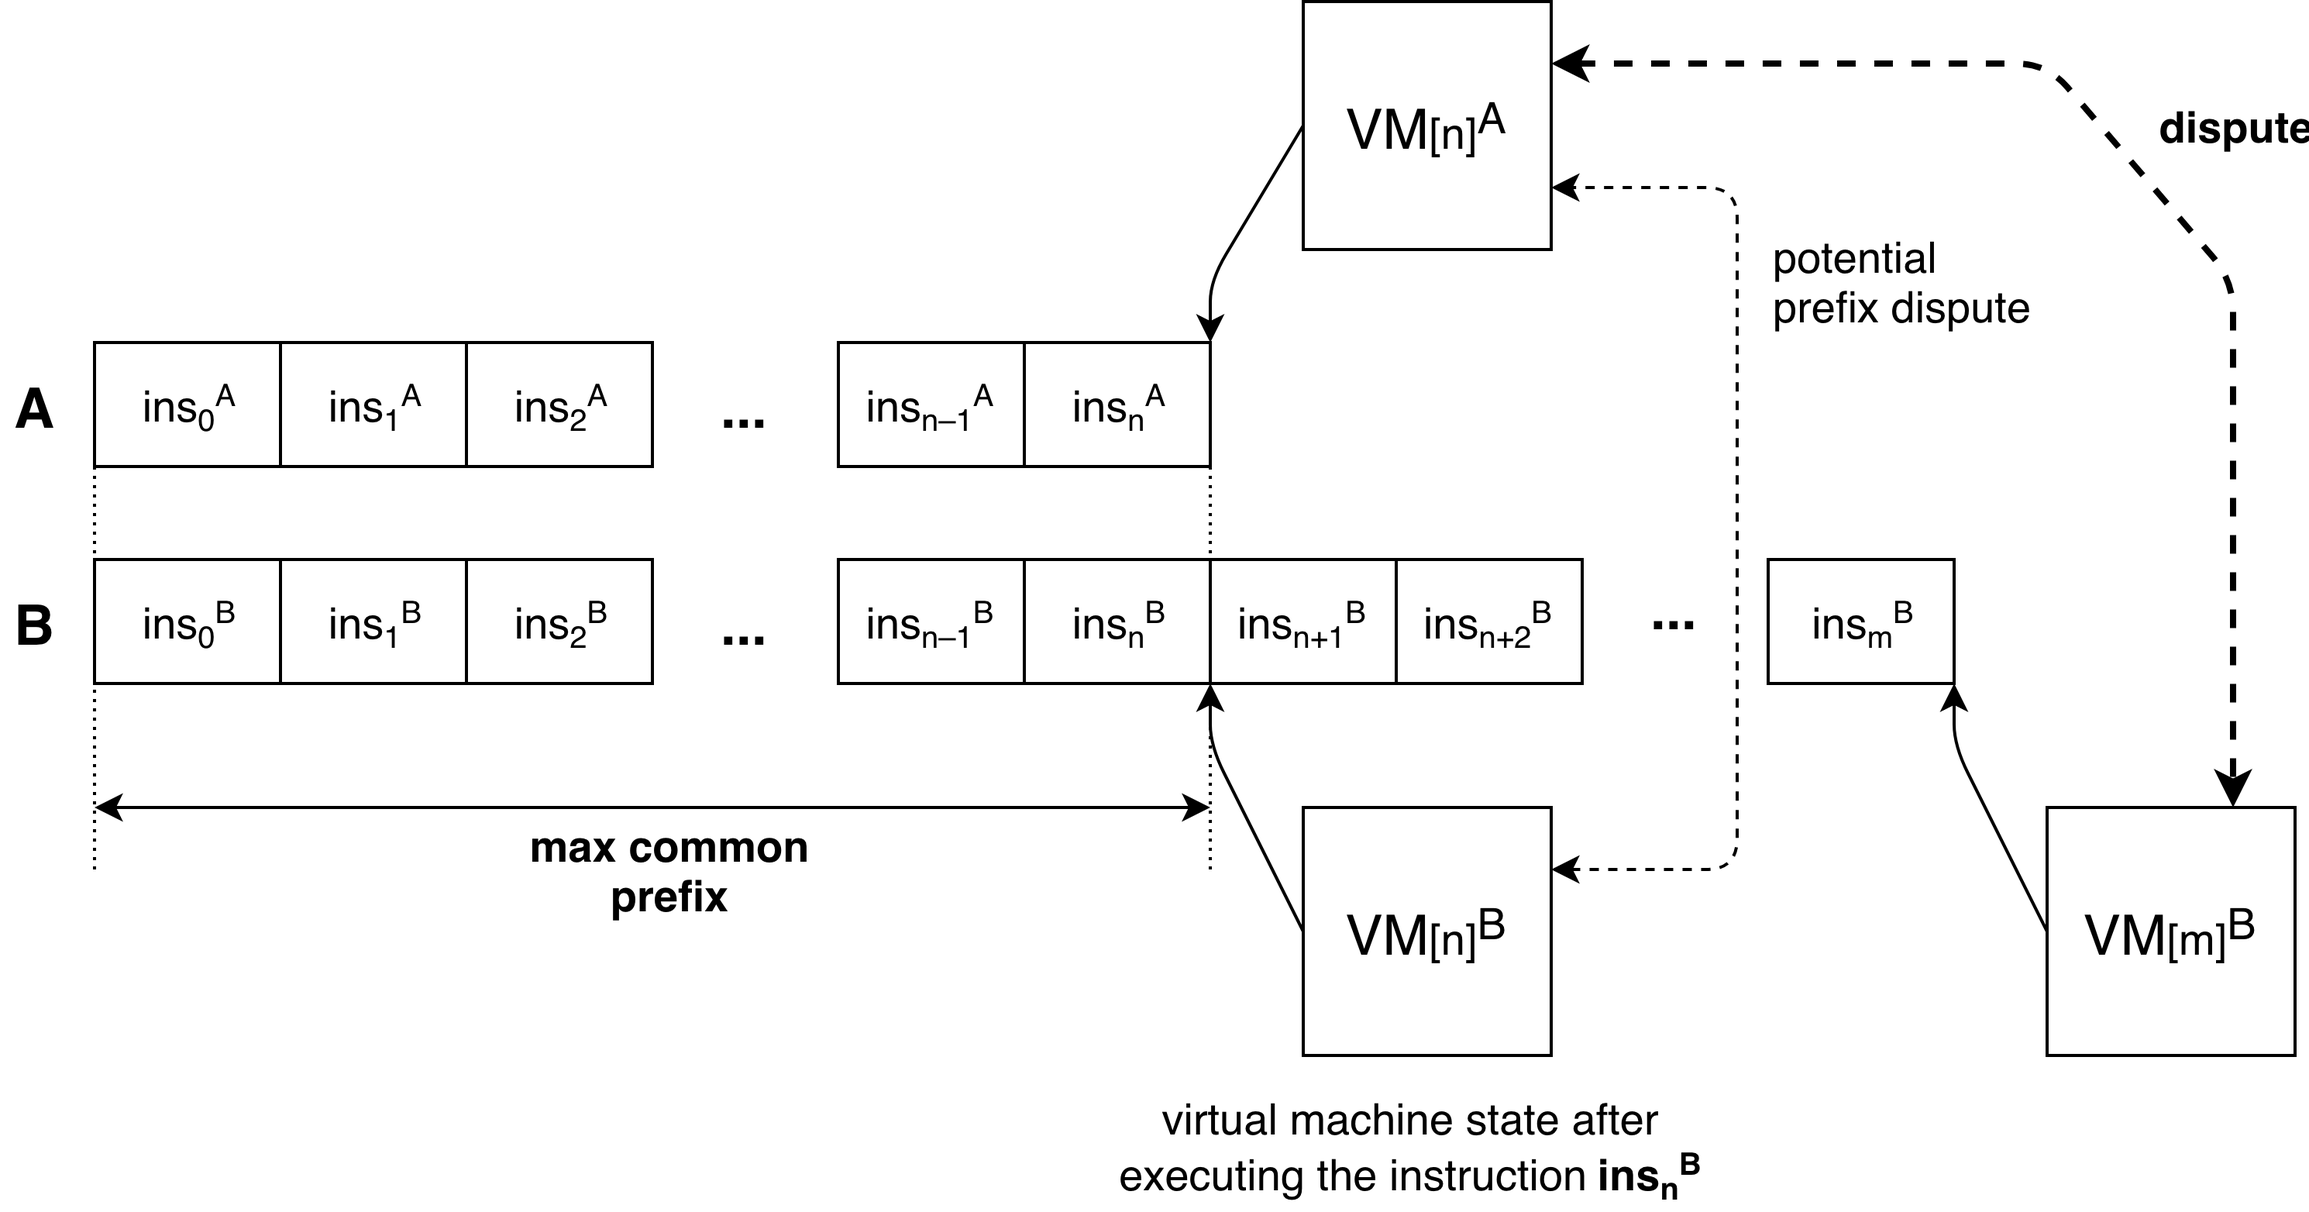
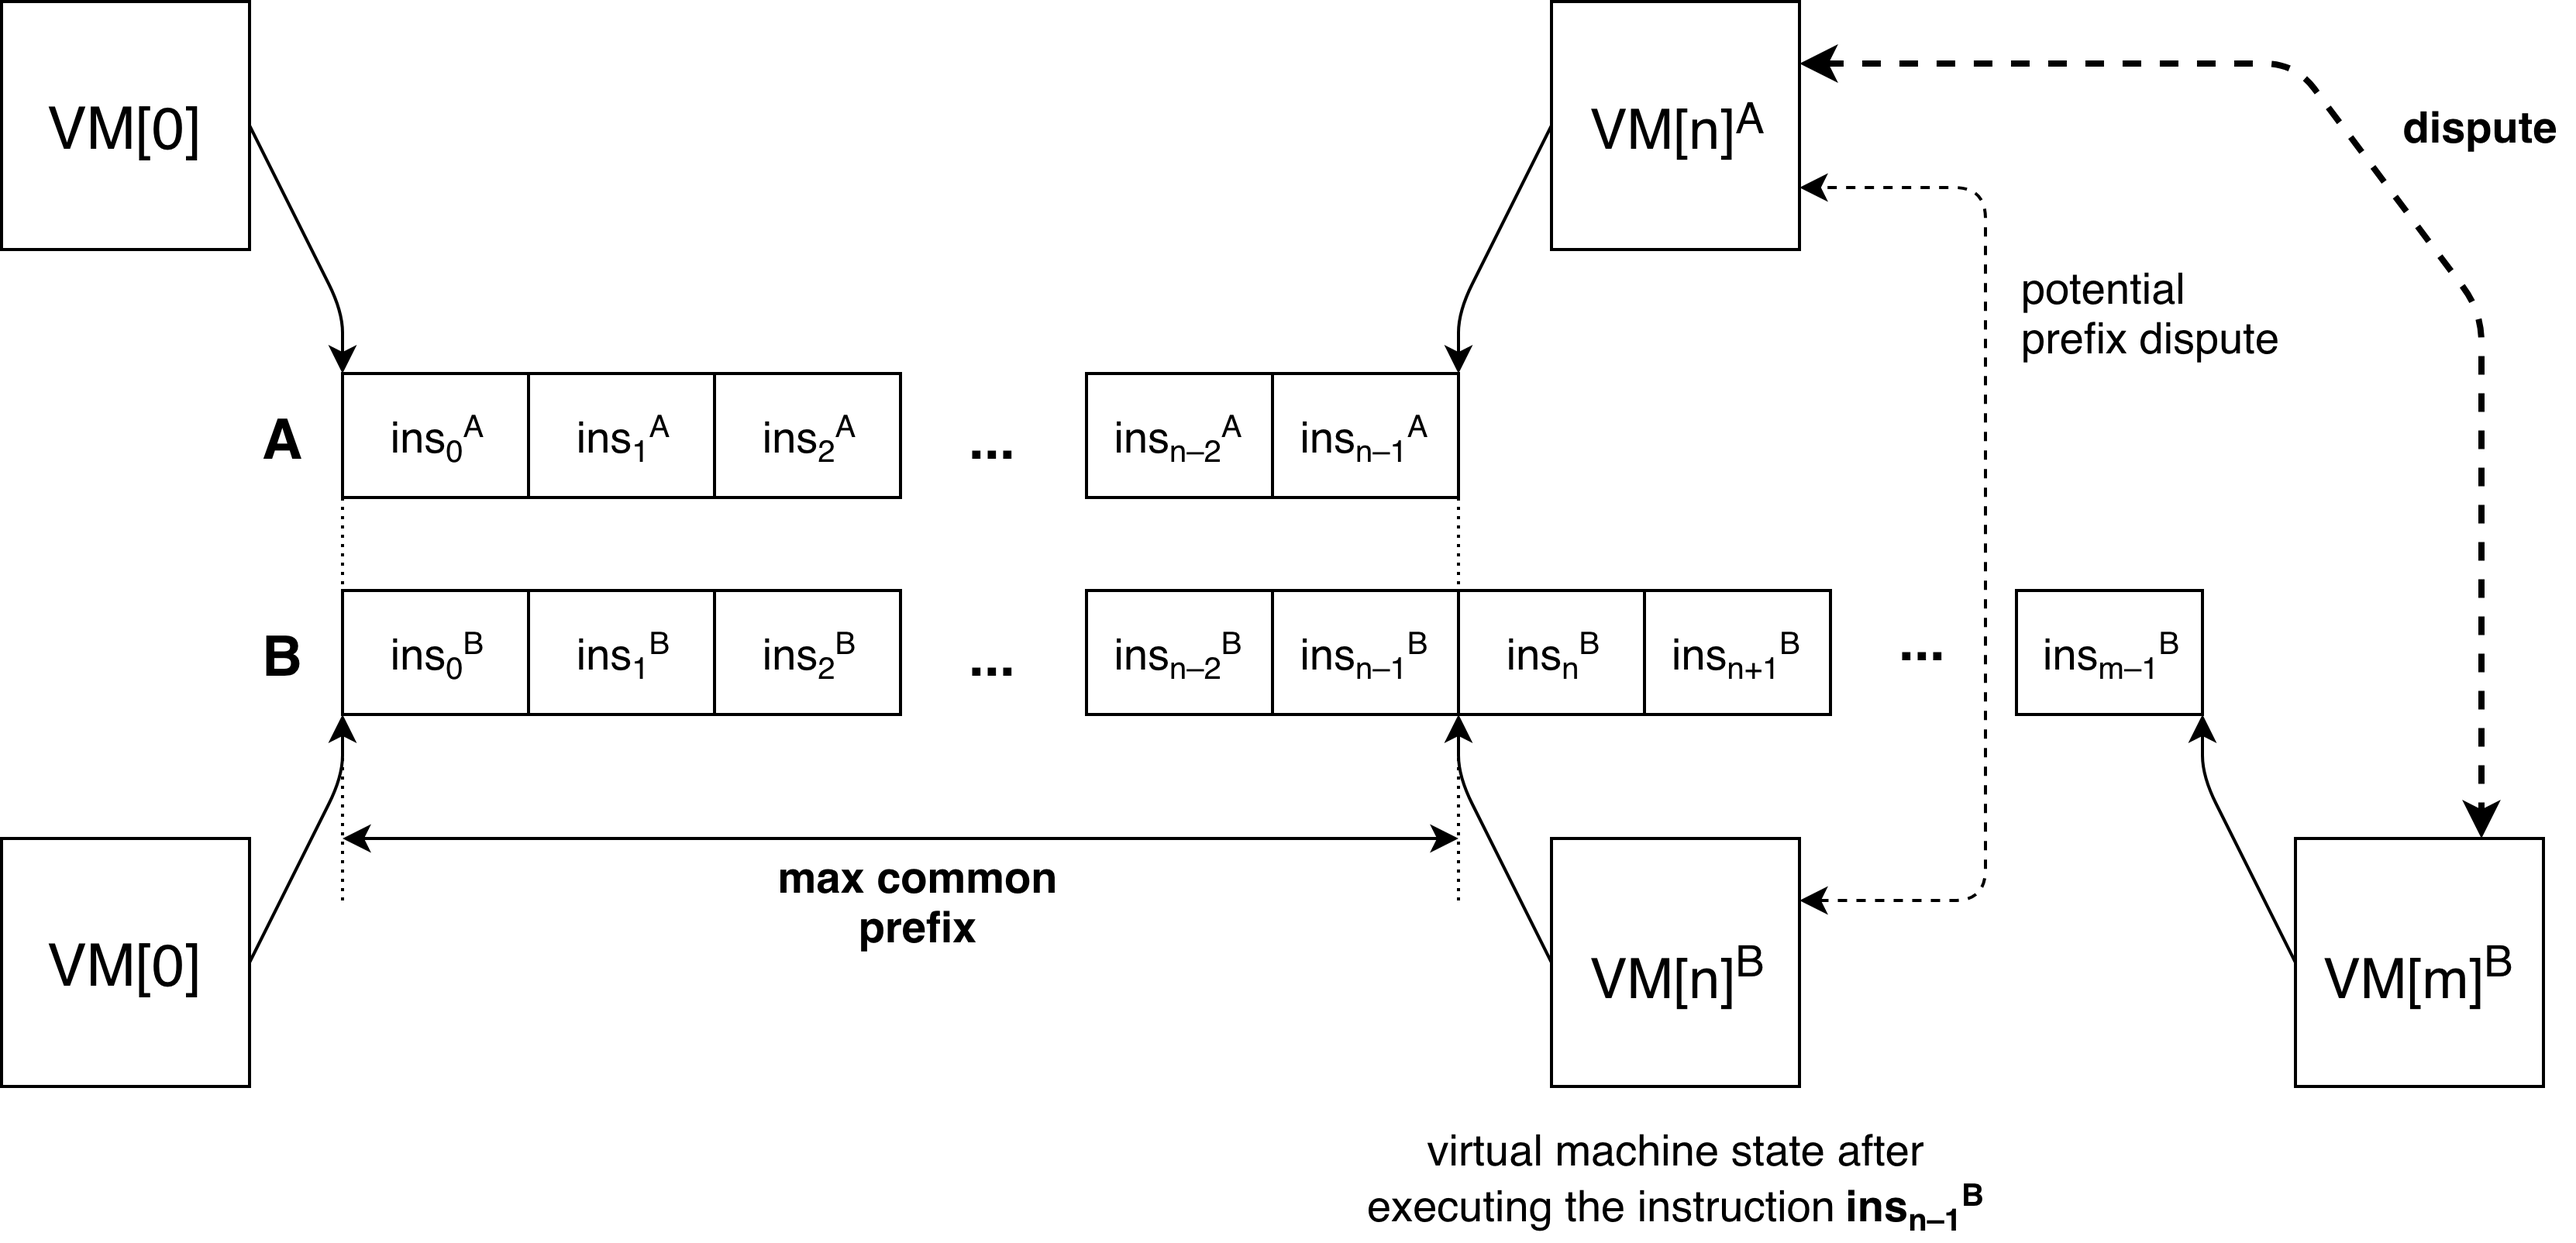
Protocol: verification game

diff --git a/docs/protocol/vm.go b/docs/protocol/vm.go
@@ -63,3 +63,23 @@ func (dispute ComputationDispute) PresentPrefixState(prefixVMHash Digest, signat
 // presents an instruction pointer corresponding to the VM state after executing the common prefix
 // [called by each party independently]
 func (dispute ComputationDispute) PresentInstructionPointer(pointer int64, proof MerkleProof) { panic("") }
+
+// presents a hash of the VM state after executing halfway from the current state parties agree on
+// to the state parties do not agree on
+// [called by each party independently]
+func (dispute ComputationDispute) PresentHalfwayState(halfwayVMHash Digest, signature Seal) { panic("") }
+
+// presents an instruction where the computation has diverged
+// presents a pointer to this instruction showing where it should be located in the Wasm code
+// presents a Merkle proof that the instruction is present in the Wasm code at the specified location
+// presents a Merkle proof that the pointer indeed belongs to the halfway virtual machine state
+// [can be called by any party]
+func (dispute ComputationDispute) PresentDisputedInstruction(
+  instruction []byte, instructionProof MerkleProof,
+  pointer int64, pointerProof MerkleProof,
+) { panic("") }
+
+// presents memory regions required by the disputed instruction
+// presents Merkle proofs that these regions belong to the halfway virtual machine state
+// [can be called by any party]
+func (dispute ComputationDispute) PresentMemoryRegions(regions []Chunk, proofs []MerkleProof) { panic("") }

diff --git a/docs/protocol.md b/docs/protocol.md
@@ -1049,10 +1049,10 @@ func (dispute ComputationDispute) PresentTraceLength(
   
 It might happen that <code>VM<sub>k+1</sub><sup>A</sup>.ExecutedCounter</code> is not equal to <code>VM<sub>k+1</sub><sup>B</sup>.ExecutedCounter</code>, which means one of the nodes had the longer execution trace than another. This situation requires additional processing, which we consider below.
 
-Let's denote the state of the virtual machine after processing `p` WebAssembly instructions while executing the transactions block <code>Txs<sub>k</sub></code> as <code>VM[p]<sub>k</sub></code>. Let's also denote the total number of instructions executed by **A** while processing <code>Txs<sub>k</sub></code> as `n`, **B** – as `m`, where `n < m`.
+Let's denote the state of the virtual machine after processing `p – 1` WebAssembly instructions while executing the transactions block <code>Txs<sub>k</sub></code> as <code>VM[p]<sub>k</sub></code>. Let's also denote the total number of instructions executed by **A** while processing <code>Txs<sub>k</sub></code> as `n`, **B** – as `m`, where `n < m`.
 
 <p align="center">
-  <img src="images/trace_mismatch.png" alt="Trace Mismatch" width="745px"/>
+  <img src="images/trace_mismatch.png" alt="Trace Mismatch" width="825px"/>
 </p>
 
 Now we are interested whether the state <code>VM[n]<sub>k+1</sub><sup>A</sup></code> is equal to the state <code>VM[n]<sub>k+1</sub><sup>B</sup></code>. Smart contract requires both sides to present the hash of the state <code>VM[n]<sub>k+1</sub></code>:
@@ -1063,9 +1063,9 @@ Now we are interested whether the state <code>VM[n]<sub>k+1</sub><sup>A</sup></c
 func (dispute ComputationDispute) PresentPrefixState(prefixVMHash Digest, signature Seal) {}
 ```
 
-If <code>VM[n]<sub>k+1</sub><sup>A</sup> != VM[n]<sub>k+1</sub><sup>B</sup></code>, we have a mismatch between the virtual machine states computed using the same number of instructions. This means we can initiate a prefix dispute between those states and use a standard verification game to resolve it. Note that instructions in the execution trace prefixes might be completely different between **A** and **B** – everything that matters is the same length of those prefixes.
+**1)** If <code>VM[n]<sub>k+1</sub><sup>A</sup> != VM[n]<sub>k+1</sub><sup>B</sup></code>, we have a mismatch between the virtual machine states computed using the same number of instructions. This means we can initiate a prefix dispute between those states and use a standard verification game to resolve it. Note that instructions in the execution trace prefixes might be completely different between **A** and **B** – everything that matters is the same length of those prefixes.
 
-If <code>VM[n]<sub>k+1</sub><sup>A</sup> == VM[n]<sub>k+1</sub><sup>B</sup></code>, then we need to figure out whether the decision of **A** to halt the program after `n` instructions, as well as the decision of **B** to run another `n+1` instruction were correct. To do so, we require both nodes to present the instruction pointer (along with the Merkle proof) corresponding to the state <code>VM[n]<sub>k+1</sub></code> to the smart contract. If it's negative, it means the execution should have stopped which means **B** misbehaved, otherwise the execution should have continued and **A** should be penalized.
+**2)** If <code>VM[n]<sub>k+1</sub><sup>A</sup> == VM[n]<sub>k+1</sub><sup>B</sup></code>, then we need to figure out whether the decision of **A** to halt the program after `n` instructions, as well as the decision of **B** to run another `n+1` instruction were correct. To do so, we require both nodes to present the instruction pointer (along with the Merkle proof) corresponding to the state <code>VM[n]<sub>k+1</sub></code> to the smart contract. If it's negative, it means the execution should have stopped which means **B** misbehaved, otherwise the execution should have continued and **A** should be penalized.
 
 ```go
 // presents an instruction pointer corresponding to the VM state after executing the common prefix
@@ -1075,10 +1075,51 @@ func (dispute ComputationDispute) PresentInstructionPointer(pointer int64, proof
 
 #### Verification game
 
+Once we have established the same number `n` of instructions in the execution traces of **A** and **B**, it's possible to execute a verification game. Both nodes start with the same virtual machine state <code>VM<sub>k</sub></code>, but end with different states <code>VM<sub>k+1</sub><sup>A</sup></code> and <code>VM<sub>k+1</sub><sup>B</sup></code>. This means that somewhere during the execution virtual machine states have diverged, and this was done by a single WebAssembly instruction. 
 
+This instruction can be found using a binary search. On each step of the search we are narrowing down the range `[i; j]` where <code>VM[i]<sub>k+1</sub><sup>A</sup> == VM[i]<sub>k+1</sub><sup>B</sup></code>, but <code>VM[j]<sub>k+1</sub><sup>A</sup> != VM[j]<sub>k+1</sub><sup>B</sup></code>. To do so, we compute the virtual machine state at `l = (i+j)/2` and if <code>VM[l]<sub>k+1</sub><sup>A</sup> == VM[l]<sub>k+1</sub><sup>B</sup></code>, set `i = l` indicating that computation divergence happened in the right half of the range. Otherwise we set `j = l` to investigate the left half of the range.
 
+<p align="center">
+  <img src="images/verification_game_search.png" alt="Verification Game Search" width="851px"/>
+</p>
 
+To perform the binary search, the contract requires both nodes to send the hash of the virtual machine state after executing `l` instructions.
 
+```go
+// presents a hash of the VM state after executing halfway from the current state parties agree on
+// to the state parties do not agree on
+// [called by each party independently]
+func (dispute ComputationDispute) PresentHalfwayState(halfwayVMHash Digest, signature Seal) {}
+```
+
+Eventually, we get into situation when `j == i+1` – which means that **A** and **B** disagree how a single instruction <code>ins<sub>i</sub></code> should change the state. To find which instruction it is, we can use an instruction pointer <code>VM[i]<sub>k+1</sub>.InstructionPointer</code> marking the location of the instruction to execute in the WebAssembly code. Because the dispute stores the Merkle hash of the WebAssembly code, any node can supply this instruction along with the Merkle proof. 
+
+```go
+// presents an instruction where the computation has diverged
+// presents a pointer to this instruction showing where it should be located in the Wasm code
+// presents a Merkle proof that the instruction is present in the Wasm code at the specified location
+// presents a Merkle proof that the pointer indeed belongs to the halfway virtual machine state
+// [can be called by any party]
+func (dispute ComputationDispute) PresentDisputedInstruction(
+  instruction []byte, instructionProof MerkleProof,
+  pointer int64, pointerProof MerkleProof,
+) {}
+```
+
+To execute an instruction, the smart contract requires regions of memory where this instruction is reading from and regions of memory where it is writing to. Any node can submit these regions with Merkle proofs that they belong to the <code>VM[i]<sub>k+1</sub></code> virtual machine state.
+
+```go
+// presents memory regions required by the disputed instruction
+// presents Merkle proofs that these regions belong to the halfway virtual machine state
+// [can be called by any party]
+func (dispute ComputationDispute) PresentMemoryRegions(regions []Chunk, proofs []MerkleProof) {}
+```
+
+Now, the smart contract implementation of the WebAssembly virtual machine can execute the instruction and obtain memory regions with an updated virtual machine state. The smart contract can substitute updated memory regions into the old Merkle proofs and compute the Merkle hash of the expected new virtual machine state. If this hash matches <code>VM[n]<sub>k+1</sub><sup>A</sup></code>, node **A** wins. If this hash matches <code>VM[n]<sub>k+1</sub><sup>B</sup></code>, node **B** wins. Otherwise, both nodes lose.
+
+<p align="center">
+  <img src="images/vm_update.png" alt="VM Update" width="384px"/>
+</p>
 
 
 
